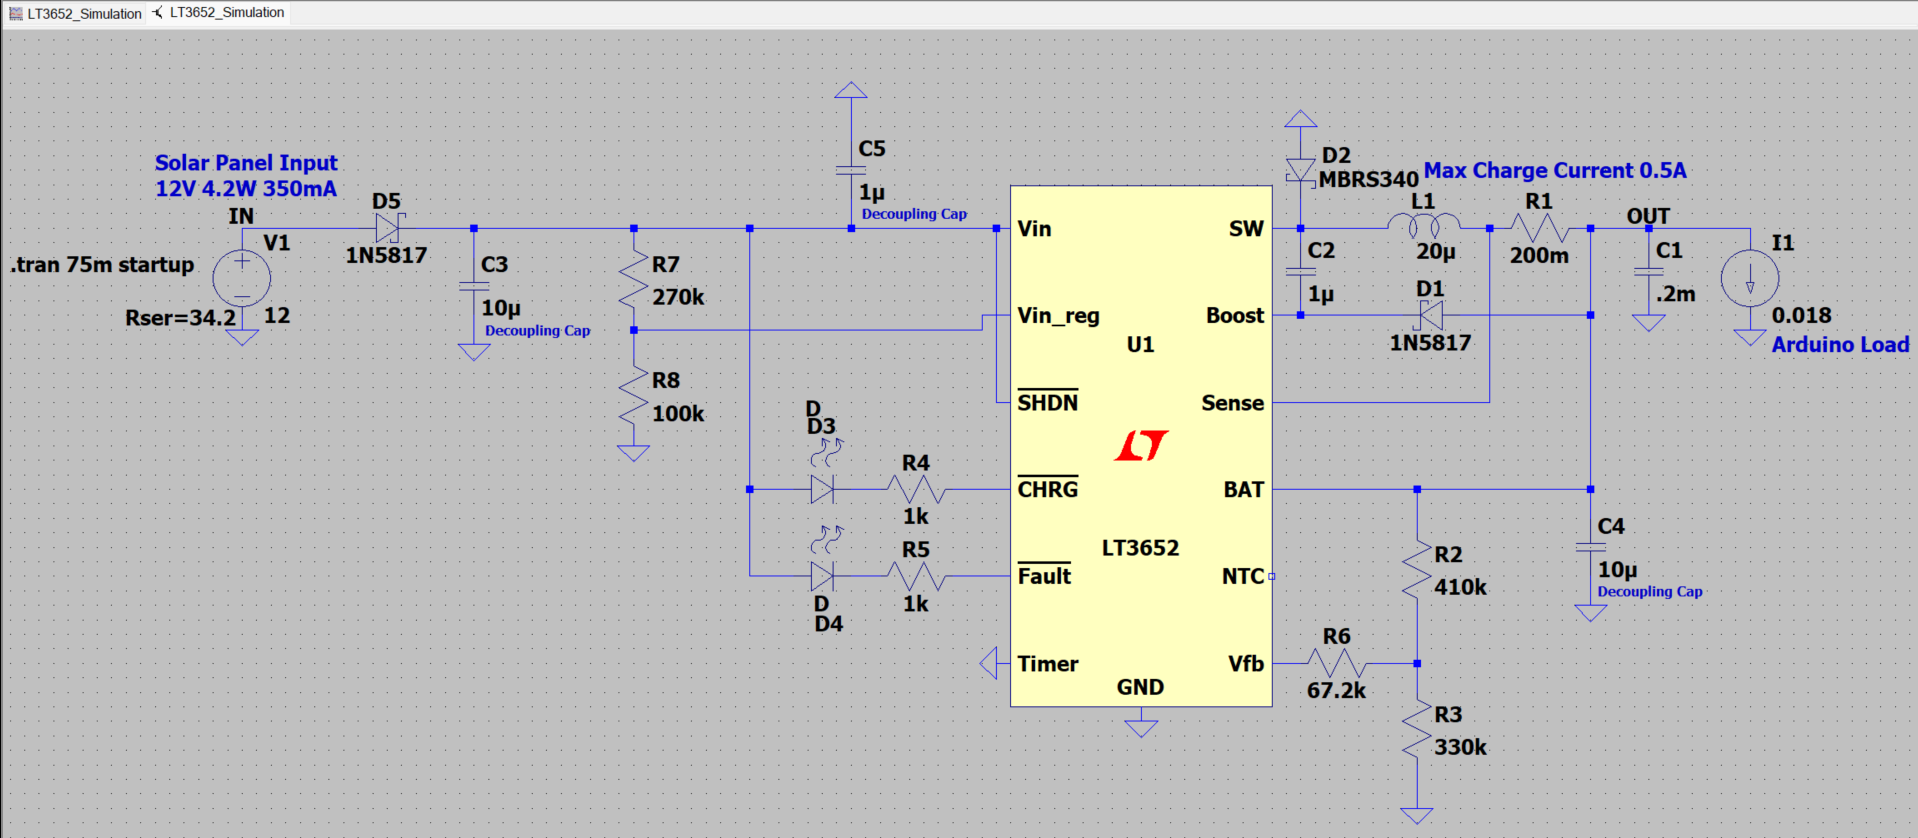
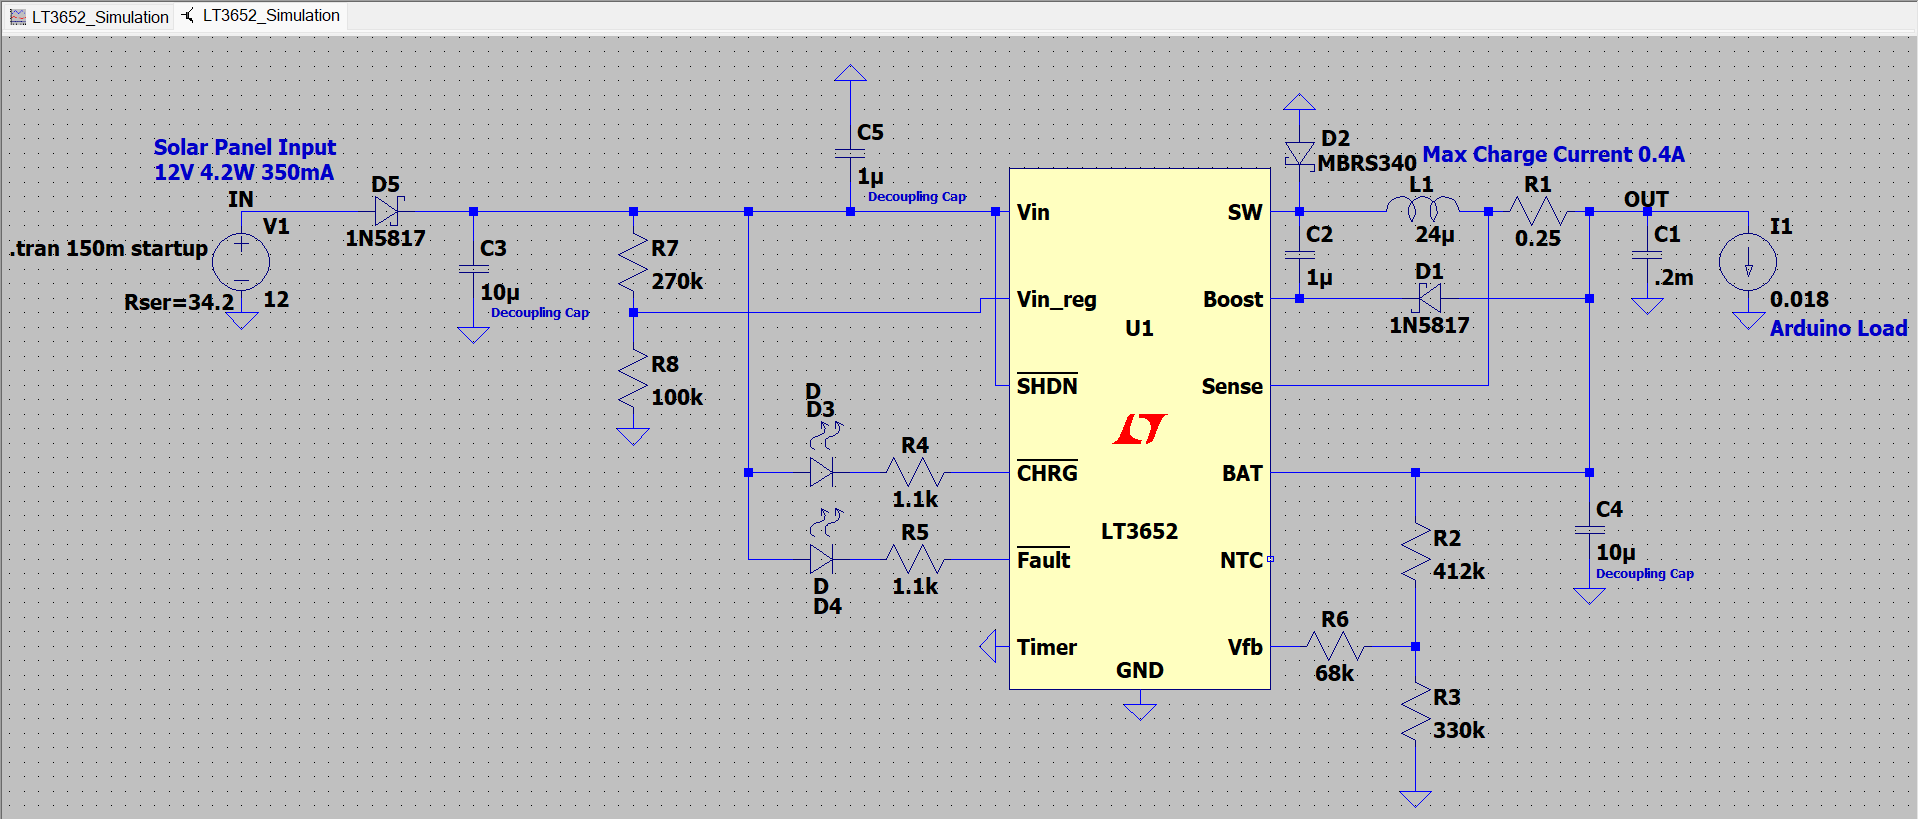
Updated SIM

diff --git a/README.md b/README.md
@@ -382,8 +382,8 @@ When C/10 termination is used, a LT3652 charger will source battery charge curre
 * 2× [ERJ-3EKF1101V - RES SMD 1.1K OHM 1% 1/10W 0603](https://www.digikey.ca/en/products/detail/panasonic-electronic-components/ERJ-3EKF1101V/196037)
 * 2× [CL10A106MA8NRNC - CAP CER 10UF 25V X5R 0603](https://www.digikey.ca/en/products/detail/samsung-electro-mechanics/CL10A106MA8NRNC/3887527)
 * 2× [CL10A105KA8NNNC - CAP CER 1UF 25V X5R 0603](https://www.digikey.ca/en/products/detail/samsung-electro-mechanics/CL10A105KA8NNNC/3886760)
-* [CRL0603-FW-R200ELF - RES 0.2 OHM 1% 1/8W 0603](https://www.digikey.ca/en/products/detail/bourns-inc/CRL0603-FW-R200ELF/3784480)
-* [744772200 - FIXED IND 20UH 2.6A 50 MOHM TH](https://www.digikey.ca/en/products/detail/w%C3%BCrth-elektronik/744772200/3073923)
+* [RL0603FR-070R25L - RES 0.25 OHM 1% 1/10W 0603](https://www.digikey.ca/en/products/detail/yageo/RL0603FR-070R25L/5924891)
+* [7447798241 - FIXED IND 24UH 4.5A 39.5MOHM SMD](https://www.digikey.ca/en/products/detail/w%C3%BCrth-elektronik/7447798241/2268621)
 * [RC0603FR-07412KL - RES 412K OHM 1% 1/10W 0603](https://www.digikey.ca/en/products/detail/yageo/RC0603FR-07412KL/727227)
 * [ERJ-3EKF3303V - RES SMD 330K OHM 1% 1/10W 0603](https://www.digikey.ca/en/products/detail/panasonic-electronic-components/ERJ-3EKF3303V/1746380)
 * [ERJ-3EKF6802V - RES SMD 68K OHM 1% 1/10W 0603](https://www.digikey.ca/en/products/detail/panasonic-electronic-components/ERJ-3EKF6802V/1746444)
